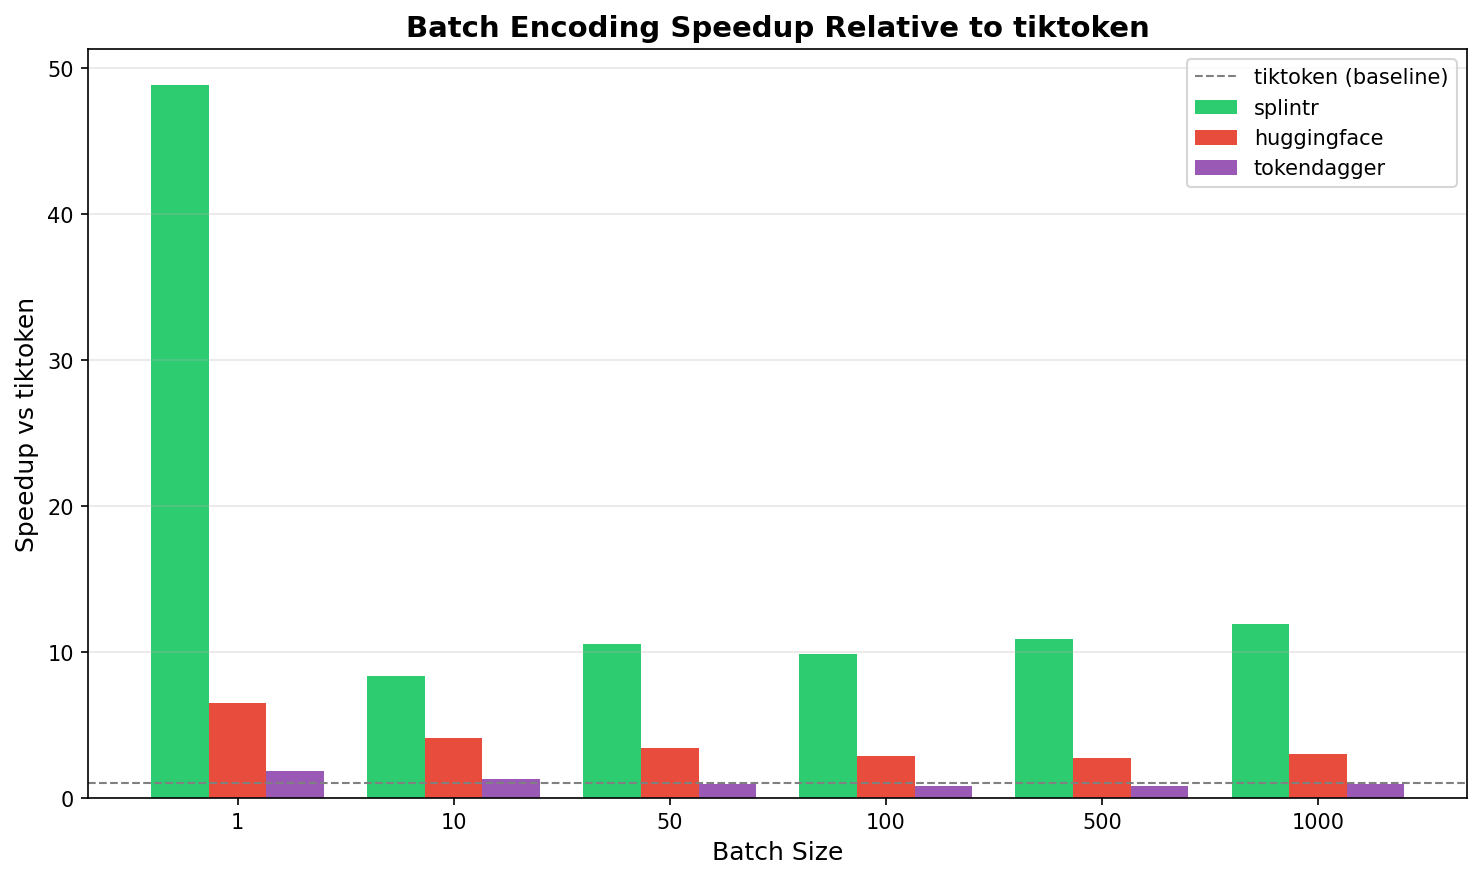
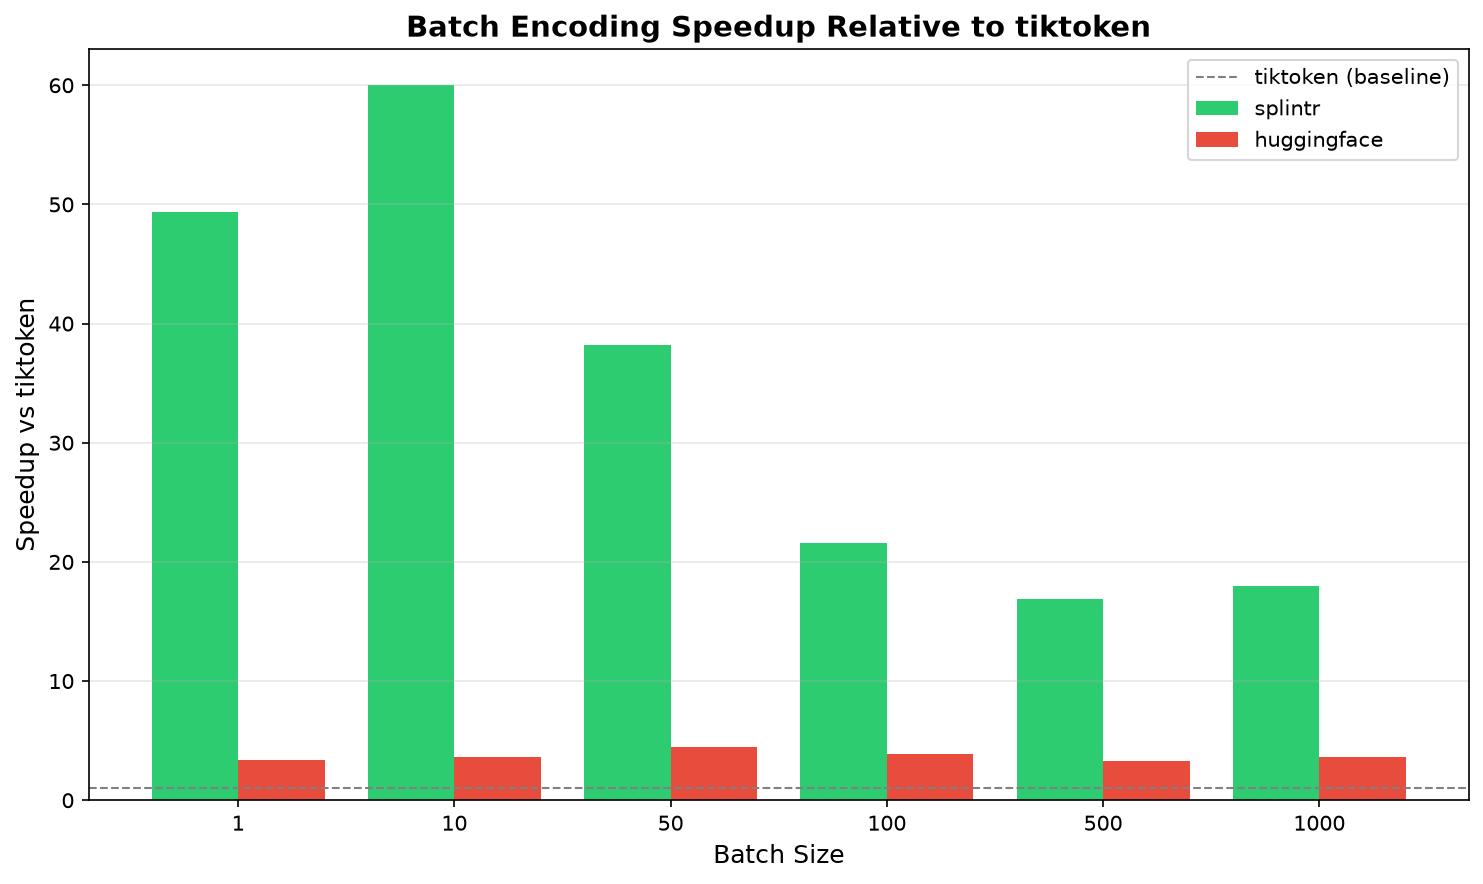
docs: re-measure the benchmark charts and tables against current versions
Charts and quoted figures were separate runs on different hardware
against tiktoken 0.8.0 and tokenizers 0.22.1, so the README said in one
paragraph that its charts and its table disagreed and the table won.
Both now come from a single run of the two scripts, on an idle machine,
against tiktoken 0.13.0 and tokenizers 0.23.1, with every engine on
`cl100k_base` and ids checked before any timing was read.

The numbers moved with the work since: batch 170 MB/s against tiktoken's
9.5, single 29 KB prose 0.152 ms against 1.639 ms. HuggingFace moved too
— 0.23.1 on the same vocabulary is roughly a fifth of splintr on batches
rather than a tenth, so the vs-HuggingFace row is revised down.

Two claims were wrong rather than stale. The gap does not widen with
batch size: it opens as soon as there is a second text to spread across
cores and is flat from there. And loading is outside the timed section,
so splintr's packed-binary vocabulary earns nothing in these figures —
that is the load row's claim, measured separately.

diff --git a/README.md b/README.md
@@ -71,7 +71,7 @@ Tokenization sits on the hot path of every LLM application — prompts, training
 
 ## Performance
 
-Batch encoding parallelizes across texts, which is where the gap is widest — and it widens with batch size, as the fixed cost of spinning up the pool is amortized over more work:
+Batch encoding parallelizes across texts, which is where the gap is widest. It opens as soon as there is more than one text to spread across cores — a single text has no parallelism to find — and holds from there:
 
 ![Batch Encoding Throughput](images/benchmark_batch.png)
 
@@ -79,26 +79,33 @@ Single texts stay on the sequential path, and still lead across every content ty
 
 ![Single Text Encoding Throughput](images/benchmark_single.png)
 
-Call it **~20x tiktoken on batches, ~5x on single texts**. The ballpark holds across machines; the exact figure does not, since absolute throughput moves with hardware, CPU architecture and the versions compared against.
+Call it **~18x tiktoken and ~5x HuggingFace on batches, ~10x and ~35x on single texts**. The ballpark holds across machines; the exact figure does not, since absolute throughput moves with hardware, CPU architecture and the versions compared against.
 
-The table below is a separate, more recent run than the charts — AMD Ryzen 9 5900X (24 cores, Linux), CPython 3.12, tiktoken 0.13.0, medians of three interleaved rounds. Where it disagrees with the charts, which were plotted on different hardware against older versions, the table is the measured one.
+Both charts and both tables come from one run of `benchmarks/benchmark_batch.py` and `benchmark_single.py`, so they agree with each other. Pinned to what it measured: **splintr 0.19.1, tiktoken 0.13.0, tokenizers 0.23.1**, CPython 3.12.7, AMD Ryzen 9 5900X (12 cores / 24 threads, Linux), idle machine. `benchmarks/requirements.txt` pins the reference libraries so a re-run measures the same comparison.
 
-Against `tiktoken`, each library loading `cl100k_base` through its own loader:
+Every engine encodes **`cl100k_base`**, each through its own `from_pretrained`: splintr from its bundled copy, tiktoken from its cached ranks file, HuggingFace from `Xenova/gpt-4` — that same vocabulary published as a `tokenizer.json`. Loading happens once before the clock starts, so which loader each library uses does not enter these numbers; splintr's packed-binary load is a separate claim, measured separately. Both scripts refuse to report a timing until all three agree on ids, so what is charted is one workload rather than three.
 
-| Batch       | Splintr        | tiktoken | vs tiktoken |
-| ----------- | -------------- | -------- | ----------- |
-| 1,000 texts | **104.8 MB/s** | 5.1 MB/s | 20.4x       |
-| 500 texts   | **93.7 MB/s**  | 4.5 MB/s | 21.0x       |
-| 100 texts   | **56.0 MB/s**  | 2.3 MB/s | 24.8x       |
-| Single text | **1.27 ms**    | 6.36 ms  | 5.0x        |
+| Batch       | Splintr        | tiktoken  | HF `tokenizers` | vs tiktoken | vs HF |
+| ----------- | -------------- | --------- | --------------- | ----------- | ----- |
+| 1,000 texts | **170.0 MB/s** | 9.5 MB/s  | 34.3 MB/s       | 18.0x       | 5.0x  |
+| 500 texts   | **170.7 MB/s** | 10.1 MB/s | 33.2 MB/s       | 16.9x       | 5.1x  |
+| 100 texts   | **148.3 MB/s** | 6.9 MB/s  | 26.9 MB/s       | 21.6x       | 5.5x  |
+
+Single texts, sequential path, three content types:
+
+| Text         | Splintr      | tiktoken | HF `tokenizers` | vs tiktoken | vs HF |
+| ------------ | ------------ | -------- | --------------- | ----------- | ----- |
+| 29 KB prose  | **0.152 ms** | 1.639 ms | 5.346 ms        | 10.8x       | 35.2x |
+| 8.9 KB code  | **0.058 ms** | 0.718 ms | 1.888 ms        | 12.4x       | 32.5x |
+| 9.6 KB mixed | **0.080 ms** | 0.577 ms | 1.582 ms        | 7.2x        | 19.8x |
 
 Against the other Rust tokenizers, every engine loading the **same** `tokenizer.json` — no loader asymmetry to argue about:
 
 | Axis            | vs HF `tokenizers`  | vs `gigatoken`                                          |
 | --------------- | ------------------- | ------------------------------------------------------- |
 | Vocabulary load | **Splintr** (~1.5x) | **Splintr** (2-4x)                                      |
-| Single text     | **Splintr** (~20x)  | **Splintr** on x86-64 (~1.5x), **tie** on Apple Silicon |
-| Batch           | **Splintr** (~10x)  | **Toss-up** — either engine, ±20% each way              |
+| Single text     | **Splintr** (~35x)  | **Splintr** on x86-64 (~1.5x), **tie** on Apple Silicon |
+| Batch           | **Splintr** (~5x)   | **Toss-up** — either engine, ±20% each way              |
 
 On `gigatoken` specifically — the other fast Rust tokenizer with Python bindings, and in the same class:
 

diff --git a/docs/benchmarks.md b/docs/benchmarks.md
@@ -1,20 +1,22 @@
 # Performance Benchmarks
 
-All figures on this page were measured by the scripts in `benchmarks/` — `benchmark_batch.py` for batch throughput, `benchmark_single.py` for single-text latency — on an AMD Ryzen 9 5900X with 24 logical cores (Linux), against tiktoken 0.8.0, Hugging Face tokenizers 0.22.1, and TokenDagger 0.1.1 on CPython 3.12.
+All figures on this page were measured by the scripts in `benchmarks/` — `benchmark_batch.py` for batch throughput, `benchmark_single.py` for single-text latency — on an AMD Ryzen 9 5900X (12 cores / 24 threads, Linux), against **splintr 0.19.1, tiktoken 0.13.0 and Hugging Face tokenizers 0.23.1** on CPython 3.12.7. `benchmarks/requirements.txt` pins the reference libraries, so a re-run measures this comparison rather than whatever a resolver picks.
+
+Every engine encodes the **same vocabulary**, `cl100k_base`, each loaded through its own `from_pretrained`: splintr from its bundled copy, tiktoken from its cached ranks file, HuggingFace from `Xenova/gpt-4` — that same vocabulary published as a `tokenizer.json`. Loading is outside the timed section, so the loader is not what these figures measure.
+
+Both scripts refuse to report a timing until all three engines produce identical ids, so a loader mistake shows up as a failed run rather than a fast-looking chart.
 
 Absolute throughput moves with the hardware, the CPU architecture and the versions being compared against, so every figure here describes one run rather than a constant. Run the scripts to get your own.
 
-The [README](../README.md#performance) carries a more recent run of the same machine against current library versions (tiktoken 0.13.0, tokenizers 0.23.1), so its absolute numbers are higher than this page's; where they disagree, the README's are the newer measurement.
-
-These scripts compare each library on the vocabulary it ships with, which is not always the same vocabulary — the HuggingFace figures are `gpt2` while splintr, tiktoken and TokenDagger run `cl100k_base`. For a strict like-for-like measurement, the manually triggered `perf` workflow (`gh workflow run perf.yml`) pins every engine to the same vocabulary and verifies they produce identical ids before it reads any timing — its [run history](https://github.com/ml-rust/splintr/actions/workflows/perf.yml) carries the most recent report.
+The [README](../README.md#performance) quotes the same run. For a broader like-for-like measurement across vocabularies, the manually triggered `perf` workflow (`gh workflow run perf.yml`) verifies every engine produces identical ids before it reads any timing — its [run history](https://github.com/ml-rust/splintr/actions/workflows/perf.yml) carries the most recent report.
 
 Every figure is the **default pure-Rust `regexr` backend** — what `pip install splintr-rs` gives you, since published wheels omit the optional `pcre2` feature. See [Regex Backends](#regex-backends) for what PCRE2 changes.
 
-The charts below were plotted from an earlier run on different hardware and against different library versions, so their absolute axes do not match the figures quoted in the text. Where they disagree, the numbers in the text are measured; charts are kept for shape only, not values.
+The charts below are plotted from that same run, so their axes and the figures quoted in the text are the same measurement.
 
 ## Single Text Encoding
 
-For single texts, splintr encodes **~2-2.6x faster** than tiktoken across five text types (short prose, medium prose, long prose, Python code, multilingual):
+For single texts, splintr encodes **~7-12x faster** than tiktoken and **~19-36x faster** than HuggingFace across five text types (short prose, medium prose, long prose, Python code, multilingual):
 
 ![Single Text Encoding Comparison](../images/benchmark_single.png)
 
@@ -30,7 +32,7 @@ Splintr parallelizes across texts, where the widest gap appears:
 
 ![Batch Speedup vs Tiktoken](../images/benchmark_batch_speedup.png)
 
-The speedup grows with batch size, as the fixed parallelization overhead is amortized over more work.
+The speedup appears as soon as there is more than one text to spread across cores; from there it is roughly flat, since the pool is already saturated.
 
 ## Design Decision: Sequential by Default
 
@@ -56,7 +58,7 @@ This architecture ensures splintr is optimized for the most common tokenization 
 git clone https://github.com/ml-rust/splintr.git
 cd splintr
 pip install -e .
-pip install tiktoken tokenizers tokendagger
+pip install -r benchmarks/requirements.txt
 
 # The two scripts that produced the figures above
 python benchmarks/benchmark_batch.py    # batch throughput table + speedup charts
